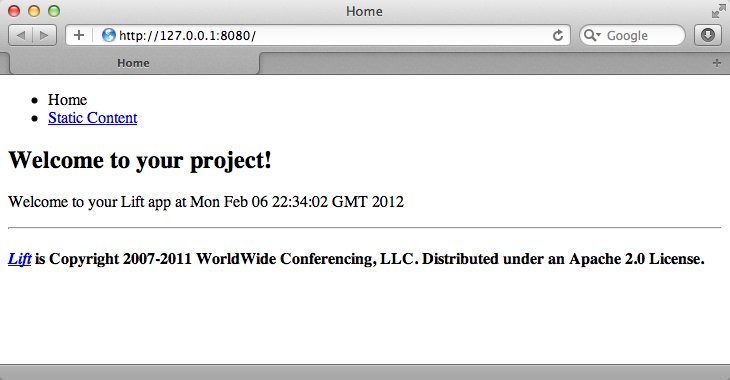
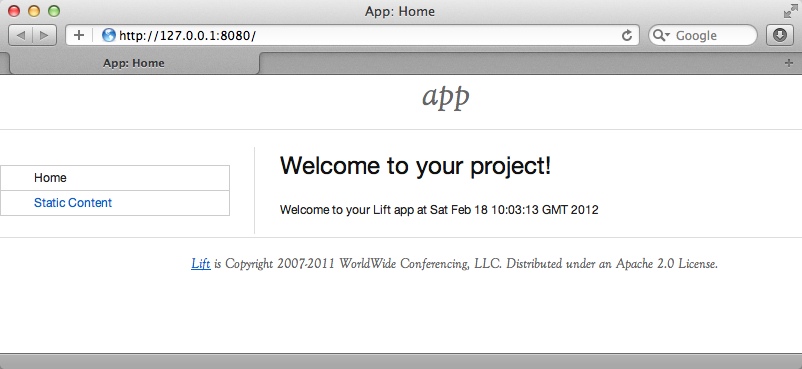
Changed install page to use 2.4 with SBT 0.11.2

diff --git a/docs/0100-Install-and-Running/0100-Running-Lift.md b/docs/0100-Install-and-Running/0100-Running-Lift.md
@@ -6,21 +6,18 @@ Problem
 
 You want to install and run Lift on your computer.
 
-ACTUALLY, THIS IS EXAMPLE MEANS USING SBT 0.7. 
-WE SHOULD FORK THE MOST BASIC EXAMPLE AND US SBT 0.11.2
-
 Solution
 ---------
 
 ### for Mac and Linux ###
 
-* Visit [http://liftweb.net/getting_started](http://liftweb.net/getting_started)
-* Download the latest release in ZIP format.
+* Download: [https://github.com/d6y/lift_24_sbt/zipball/master](https://github.com/d6y/lift_24_sbt/zipball/master)
 * Unzip the file.
-* Start Terminal or your favoute shell tool.
+* Start Terminal or your favourite shell tool.
 * Naviate into the unzipped folder
-* `cd scala_29/lift_blank` 
-* `./sbt update jetty`
+* Run:`./sbt` 
+* Required libraries will be downloaded.
+* At the SBT prompt (>) type: `container:start`
 * Start your browser and go to `http://127.0.0.1:8080/`
 
 
@@ -28,21 +25,20 @@ Solution
 
 ### for Windows ###
 
-* Visit [http://liftweb.net/getting_started](http://liftweb.net/getting_started)
-* Download the latest release in ZIP format.
+* Download: [https://github.com/d6y/lift_24_sbt/zipball/master](https://github.com/d6y/lift_24_sbt/zipball/master)
 * Unzip the file.
 * ?
-* ?
+* Run:`./sbt.bat` 
+* Required libraries will be downloaded.
+* At the SBT prompt (>) type: `container:start`
+* Start your browser and go to `http://127.0.0.1:8080/`
 
 
 ### Expected result ###
 
 The result of the above commands should be a basic Lift app running on your computer.
 
-![Screenshot of Lift started in a Terminal window](../img/running_lift_blank_shell_thumb.png "Running a Lift app from the shell")
-
 ![Screenshot of the Lift basic app running](../img/running_lift_blank_browser.jpg "Lift Basic app in a browser")
-
 
 
 
@@ -50,15 +46,15 @@ The result of the above commands should be a basic Lift app running on your comp
 Discussion
 ----------
 
-Lift isn't installed in the usual sense of "installing software".  Instead, it uses standard build tools, such as SBT or Maven, to assemble your application that makes use of the Lift framework. This recipe has downloaded a handful of bare-bones Lift applications, and then started one.
+Lift isn't installed in the usual sense of "installing software".  Instead it uses standard build tools, such as SBT or Maven, to assemble your application built with the Lift framework. This recipe has downloaded a bare-bones Lift applications, and then started it using a build tool.
 
-The `sbt` command starts the Simple Build Tool, a dependency management tool used by Scala projects.  The first command, `update`, causes SBT to fetch the libraries required by this lift_blank application.  The second command, `jetty`, starts the web server that listens on a port (8080 by default) and passes requests to the Lift application.
+The `sbt` command starts the Simple Build Tool, a dependency management tool used by Scala projects.  It will check the project and download any fetch the libraries required by this Lift application.  The command `container:start` starts the web server that listens on a port (8080 by default) and passes requests to the Lift application.
 
-
+You may be wondering why this recipe doesn't use the official Lift [getting started page](http://liftweb.net/getting_started) download.  It's because that download currently uses an older version of SBT which has a different structure and different commands compared to the latest version we use in this cookbook.
 
 See also
 --------
 
 * [Simple Build Tool](https://github.com/harrah/xsbt/wiki)
-* 
+
 

diff --git a/docs/0000-Lift-Cookbook.md b/docs/0000-Lift-Cookbook.md
@@ -11,7 +11,7 @@ The aim is to give a single, short answer to a specific question. Where there ar
 Learning about Lift
 --------------------
 
-If, instead, you want to learn Lift, take a look at:
+If you are looking to learn Lift, take a look at:
 
 * [Simply Lift](http://simply.liftweb.net/).
 * [Lift in Action](http://www.manning.com/perrett/), Manning Publications.
